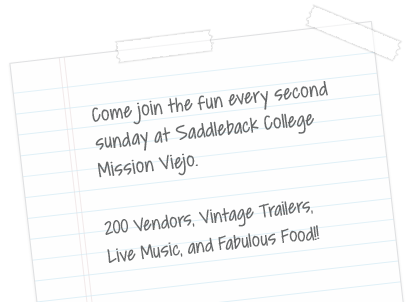
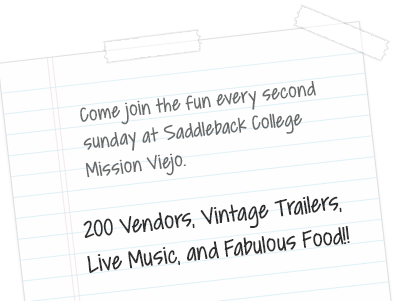
Fixed post it size Added 'free parking & free admission'

diff --git a/style.css b/style.css
@@ -1283,8 +1283,8 @@ Ornaments on Home Featured Section
 --------------------------------------------- */
 
 .post-it {
-	width: 172px;
-	height: 155px;
+	width: 200px;
+	height: 179px;
 	background: url('images/post-it.png') no-repeat 0 0;
 	background-size: cover;
 	position: relative;
@@ -1295,8 +1295,8 @@ Ornaments on Home Featured Section
 @media only screen and (min-width: 768px) {
 
 	.post-it {
-		width: 212px;
-		height: 193px;
+		width: 230px;
+		height: 205px;
 		position: absolute;
 		z-index:999;
 		left: 10px;
@@ -1304,14 +1304,14 @@ Ornaments on Home Featured Section
 	}
 
 	.note {
-		width: 416px;
-		height: 302px;
+		width: 401px;
+		height: 301px;
 		background: url('images/note.png') no-repeat 0 0;
 		background-size: cover;
 		position: absolute;
 		z-index:2;
 		right: 2%;
-		bottom: -15px;
+		bottom: -10px;
 	}
 
 	.market {
@@ -1337,13 +1337,13 @@ Ornaments on Home Featured Section
 	}
 
 	.paperclip {
-		width: 34px;
-		height: 78px;
+		width: 288px;
+		height: 75px;
 		background: url('images/paperclip.png') no-repeat 0 0;
 		z-index:1000;
 		position: absolute;
-		top: 91px;
-		left: 48%;
+		top: 89px;
+		left: 29.8%;
 	}
 
 }
@@ -1351,13 +1351,19 @@ Ornaments on Home Featured Section
 @media only screen and (min-width: 1024px) {
 
 	.post-it {
-		left: 6%;
-		top: 20px;
+		width: 290px;
+		height: 259px;
+		left: 4%;
+		top: 13px;
 	}
 
 	.note {
 		right: 5%;
-		bottom: -15px;
+		bottom: -10px;
+	}
+
+	.paperclip {
+		left: 35.8%;
 	}
 
 }
